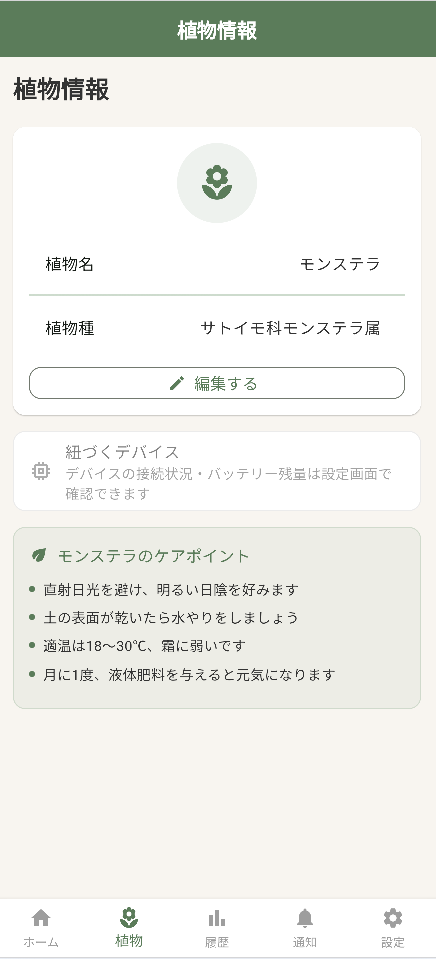
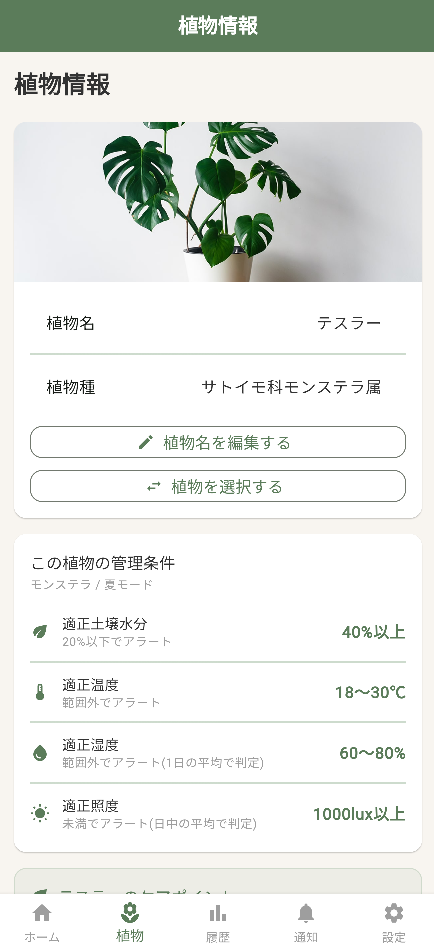
植物情報ページ更新

diff --git a/app/lib/screens/plant_info/plant_info_page.dart b/app/lib/screens/plant_info/plant_info_page.dart
@@ -156,103 +156,70 @@ class PlantInfoPage extends StatelessWidget {
         Text('植物情報', style: Theme.of(context).textTheme.headlineLarge),
         const SizedBox(height: AppSpacing.large),
         Card(
-          child: Padding(
-            padding: const EdgeInsets.all(AppSpacing.medium),
-            child: Column(
-              children: [
-                CircleAvatar(
-                  radius: 40,
-                  backgroundColor: Theme.of(
-                    context,
-                  ).colorScheme.primary.withValues(alpha: 0.1),
-                  child: Icon(
-                    Icons.local_florist,
-                    size: 40,
-                    color: Theme.of(context).colorScheme.primary,
-                  ),
+          clipBehavior: Clip.antiAlias,
+          child: Column(
+            children: [
+              _PlantPhotoHeader(speciesKey: plant.speciesKey),
+              Padding(
+                padding: const EdgeInsets.all(AppSpacing.medium),
+                child: Column(
+                  children: [
+                    ListTile(
+                      title: const Text('植物名'),
+                      trailing: Text(
+                        plant.name,
+                        style: Theme.of(context).textTheme.bodyLarge,
+                      ),
+                    ),
+                    const Divider(),
+                    ListTile(
+                      title: const Text('植物種'),
+                      trailing: Text(
+                        plant.speciesInfo.scientificName,
+                        style: Theme.of(context).textTheme.bodyLarge,
+                      ),
+                    ),
+                    const SizedBox(height: AppSpacing.medium),
+                    SizedBox(
+                      width: double.infinity,
+                      child: OutlinedButton.icon(
+                        icon: const Icon(Icons.edit),
+                        label: const Text('植物名を編集する'),
+                        onPressed: () =>
+                            _showEditNameDialog(context, store, plant),
+                      ),
+                    ),
+                    const SizedBox(height: AppSpacing.small),
+                    SizedBox(
+                      width: double.infinity,
+                      child: OutlinedButton.icon(
+                        icon:
+                            (store.isLoadingSpeciesCatalog ||
+                                store.isSelectingSpecies)
+                            ? const SizedBox(
+                                width: 16,
+                                height: 16,
+                                child: CircularProgressIndicator(
+                                  strokeWidth: 2,
+                                ),
+                              )
+                            : const Icon(Icons.swap_horiz),
+                        label: const Text('植物を選択する'),
+                        onPressed:
+                            (store.isLoadingSpeciesCatalog ||
+                                store.isSelectingSpecies)
+                            ? null
+                            : () => _showSpeciesPicker(context, store, plant),
+                      ),
+                    ),
+                  ],
                 ),
-                const SizedBox(height: AppSpacing.medium),
-                ListTile(
-                  title: const Text('植物名'),
-                  trailing: Text(
-                    plant.name,
-                    style: Theme.of(context).textTheme.bodyLarge,
-                  ),
-                ),
-                const Divider(),
-                ListTile(
-                  title: const Text('植物種'),
-                  trailing: Text(
-                    plant.speciesInfo.scientificName,
-                    style: Theme.of(context).textTheme.bodyLarge,
-                  ),
-                ),
-                const SizedBox(height: AppSpacing.medium),
-                SizedBox(
-                  width: double.infinity,
-                  child: OutlinedButton.icon(
-                    icon: const Icon(Icons.edit),
-                    label: const Text('植物名を編集する'),
-                    onPressed: () =>
-                        _showEditNameDialog(context, store, plant),
-                  ),
-                ),
-                const SizedBox(height: AppSpacing.small),
-                SizedBox(
-                  width: double.infinity,
-                  child: OutlinedButton.icon(
-                    icon: (store.isLoadingSpeciesCatalog ||
-                            store.isSelectingSpecies)
-                        ? const SizedBox(
-                            width: 16,
-                            height: 16,
-                            child: CircularProgressIndicator(strokeWidth: 2),
-                          )
-                        : const Icon(Icons.swap_horiz),
-                    label: const Text('植物を選択する'),
-                    onPressed:
-                        (store.isLoadingSpeciesCatalog ||
-                            store.isSelectingSpecies)
-                        ? null
-                        : () => _showSpeciesPicker(context, store, plant),
-                  ),
-                ),
-              ],
-            ),
+              ),
+            ],
           ),
         ),
         const SizedBox(height: AppSpacing.medium),
         _CareProfileCard(plant: plant),
-        const SizedBox(height: AppSpacing.medium),
-        // 現状は未接続でもほとんど意味を持たない情報のため、
-        // 主役の植物カードより控えめなトーン(輪郭のみ・淡色アイコン)にしている。
-        // デバイスペアリング機能の実装(要件定義書 F-07)に合わせて、
-        // 接続状況・バッテリー残量などを表示する作りに更新する想定。
-        Card(
-          elevation: 0,
-          shape: RoundedRectangleBorder(
-            borderRadius: BorderRadius.circular(AppRadii.medium),
-            side: BorderSide(color: Colors.black.withValues(alpha: 0.08)),
-          ),
-          child: ListTile(
-            leading: Icon(
-              Icons.memory,
-              color: AppColors.textPrimary.withValues(alpha: 0.4),
-            ),
-            title: Text(
-              '紐づくデバイス',
-              style: Theme.of(context).textTheme.bodyLarge?.copyWith(
-                color: AppColors.textPrimary.withValues(alpha: 0.6),
-              ),
-            ),
-            subtitle: Text(
-              'デバイスの接続状況・バッテリー残量は設定画面で確認できます',
-              style: Theme.of(context).textTheme.bodyMedium?.copyWith(
-                color: AppColors.textPrimary.withValues(alpha: 0.45),
-              ),
-            ),
-          ),
-        ),
         const SizedBox(height: AppSpacing.medium),
         CareTipsCard(title: '${plant.name}のケアポイント', tips: _monsteraCareTips),
       ],
@@ -378,6 +345,64 @@ class _CareConditionTile extends StatelessWidget {
             ),
           ),
         ],
+      ),
+    );
+  }
+}
+
+/// 植物情報カード上部の写真ヘッダー。
+///
+/// `images/plant_photos/<species_key>.jpg`(または`.png`)が存在すればそれを
+/// 表示し、無ければグラデーション背景+アイコンのフォールバック表示にする
+/// (実機のネットワーク制限で実際の植物写真をこのプロジェクトに同梱できな
+/// かったため、写真は利用者が任意で追加できる形にしている。
+/// images/plant_photos/README.md参照)。
+///
+/// NOTE: フォルダ名を`assets/plants/`にしていた時期があったが、Flutter Web
+/// は配信時に自動で`assets/`という接頭辞を付けるため、フォルダ名自体が
+/// 「assets」から始まっていると`assets/assets/plants/...`のように二重になり
+/// 404になる不具合があった。それを避けるため`images/plant_photos/`という
+/// 「assets」を含まない名前に変更している。
+class _PlantPhotoHeader extends StatelessWidget {
+  final String? speciesKey;
+
+  const _PlantPhotoHeader({required this.speciesKey});
+
+  @override
+  Widget build(BuildContext context) {
+    final assetPath = 'images/plant_photos/${speciesKey ?? 'default'}.jpg';
+
+    return SizedBox(
+      height: 160,
+      width: double.infinity,
+      child: Image.asset(
+        assetPath,
+        fit: BoxFit.cover,
+        errorBuilder: (context, error, stackTrace) => _PhotoFallback(
+          color: Theme.of(context).colorScheme.primary,
+        ),
+      ),
+    );
+  }
+}
+
+class _PhotoFallback extends StatelessWidget {
+  final Color color;
+
+  const _PhotoFallback({required this.color});
+
+  @override
+  Widget build(BuildContext context) {
+    return Container(
+      decoration: BoxDecoration(
+        gradient: LinearGradient(
+          begin: Alignment.topLeft,
+          end: Alignment.bottomRight,
+          colors: [color.withValues(alpha: 0.12), color.withValues(alpha: 0.28)],
+        ),
+      ),
+      child: Center(
+        child: Icon(Icons.local_florist, size: 56, color: color.withValues(alpha: 0.55)),
       ),
     );
   }

diff --git a/app/images/plant_photos/README.md b/app/images/plant_photos/README.md
@@ -1,0 +1,29 @@
+# 植物写真の配置について
+
+このフォルダに植物種ごとの写真を置くと、植物情報ページのヘッダーに表示されます。
+
+## 配置ルール
+
+- ファイル名は `<species_key>.jpg`(または`.png`)
+- 例: モンステラの場合 → `monstera.jpg`
+- `species_key`は`server/utils/speciesCatalog.js`のカタログのkeyと一致させること
+
+## 写真が無い場合
+
+このフォルダに該当ファイルが無い場合、`plant_info_page.dart`は自動的に
+グラデーション背景+アイコンのフォールバック表示にする(エラーにはならない)。
+実機で育てている植物の写真を撮って配置すると、そのまま反映される。
+
+## 注意:フォルダ名を「assets/〜」にしないこと
+
+Flutter Web(および他プラットフォームのビルド)は、アプリ内のアセットを
+配信する際に自動で`assets/`という接頭辞を付ける。そのため、pubspec.yamlに
+登録するフォルダ名自体を`assets/plants/`のように「assets」から始まる名前に
+すると、実際の配信パスが`assets/assets/plants/...`のように二重になり
+404エラーになる(実際にこの不具合が発生したため、`images/plant_photos/`
+という名前に変更した経緯がある)。今後もこのフォルダ名は変更しないこと。
+
+## 注意
+
+写真を追加した後は `pubspec.yaml` の `assets:` に `images/plant_photos/` が
+登録されていることを確認し(登録済み)、`flutter pub get` を実行すること。
